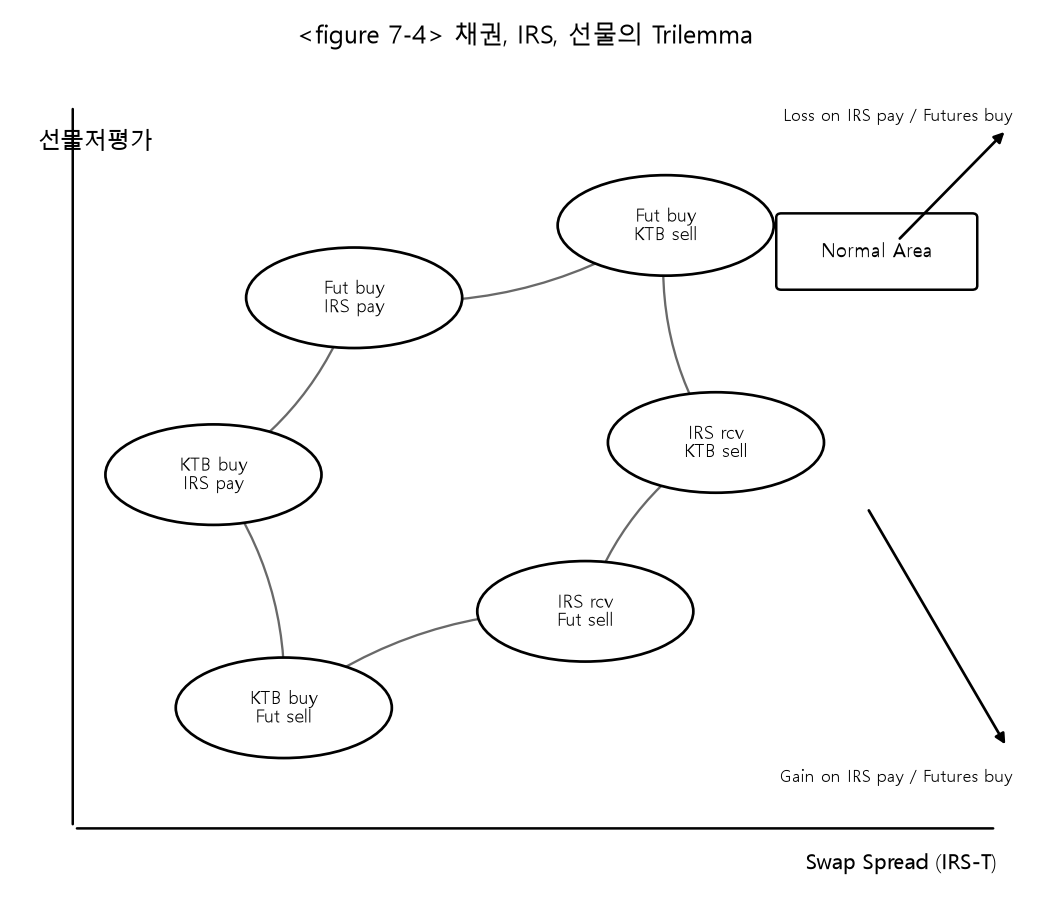
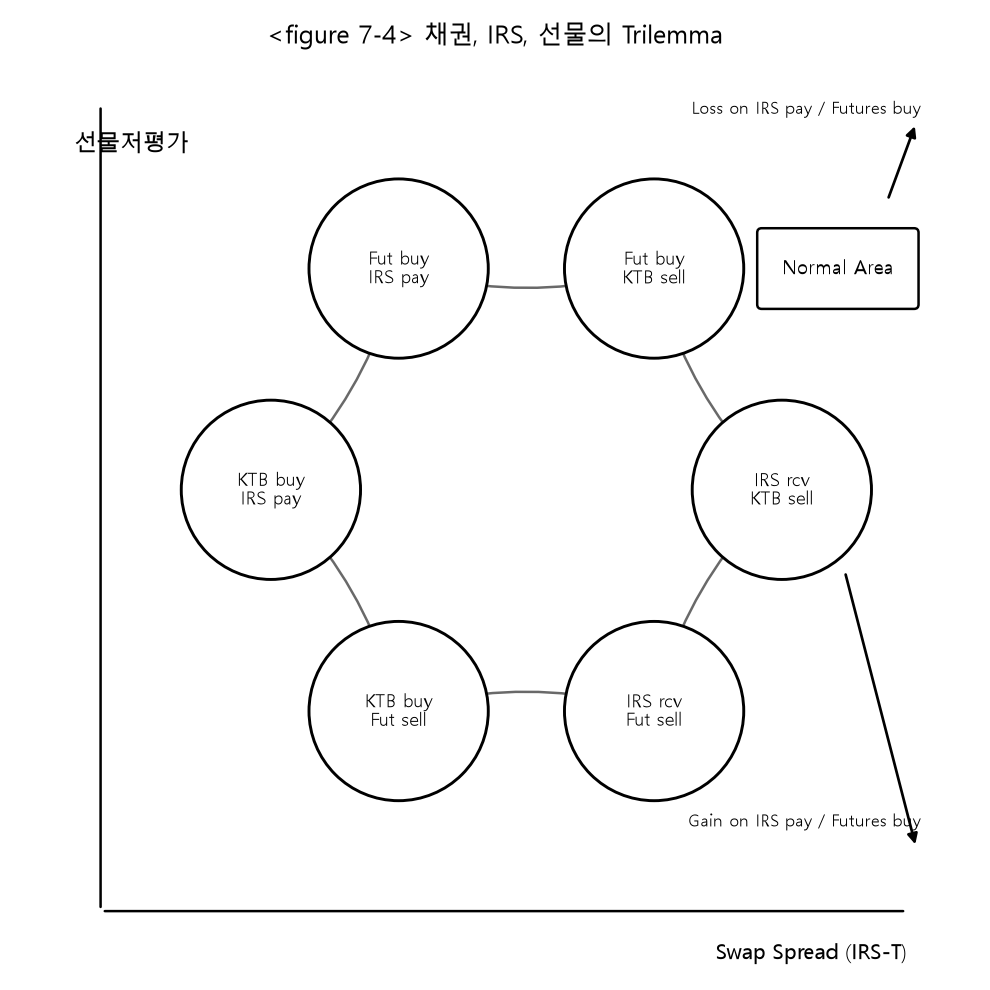
Relative Value 위치 이동, IRS-KTB 장기평균 추가, Trilemma 다이어그램 재디자인
- 사이드바 순서: 국내금리 -> IRS -> Relative Value -> 해외금리...
- IRS-KTB 추이 각 차트에 전체 기간 평균을 점선 기준선으로 표시
- Trilemma 다이어그램을 타원 대신 정원(true circle, set_aspect="equal")으로
  다시 그리고 육각형 배치로 정리, 산점도 차트와 높이가 비슷하도록 크기 조정

diff --git a/assets/gen_trilemma.py b/assets/gen_trilemma.py
@@ -2,70 +2,82 @@
 <그림 7-4> 채권, IRS, 선물의 Trilemma 개념도를 재현해서 정적 이미지로 저장.
 데이터에서 계산되는 그래프가 아니라 참고용 개념도라서, 한 번만 생성해서
 assets/trilemma_diagram.png 로 커밋해두고 앱에서는 st.image로 보여준다.
+
+노드를 정원(true circle)으로 그리기 위해 ax.set_aspect("equal") 사용 - 이게 없으면
+figure 가로세로 비율에 따라 원이 타원으로 찌그러져 보인다.
 """
 import matplotlib
 matplotlib.use("Agg")
+import math
 import matplotlib.pyplot as plt
-from matplotlib.patches import Ellipse, FancyArrowPatch, FancyBboxPatch
+from matplotlib.patches import Circle, FancyArrowPatch, FancyBboxPatch
 
 plt.rcParams["font.family"] = "Malgun Gothic"
 plt.rcParams["axes.unicode_minus"] = False
 
-fig, ax = plt.subplots(figsize=(7, 6), dpi=150)
+fig, ax = plt.subplots(figsize=(6.6, 6.6), dpi=150)
 ax.set_xlim(0, 10)
 ax.set_ylim(0, 10)
+ax.set_aspect("equal")
 ax.axis("off")
 
-# 축 (테두리만 있는 좌표계처럼 보이게)
-ax.annotate("", xy=(9.7, 0.6), xytext=(0.5, 0.6),
+# 축
+ax.annotate("", xy=(9.6, 0.6), xytext=(0.6, 0.6),
             arrowprops=dict(arrowstyle="-", color="black", lw=1.2))
-ax.annotate("", xy=(0.5, 9.6), xytext=(0.5, 0.6),
+ax.annotate("", xy=(0.6, 9.6), xytext=(0.6, 0.6),
             arrowprops=dict(arrowstyle="-", color="black", lw=1.2))
-ax.text(0.15, 9.3, "선물저평가", fontsize=11, ha="left", va="top")
-ax.text(9.7, 0.3, "Swap Spread (IRS-T)", fontsize=10, ha="right", va="top")
+ax.text(0.3, 9.3, "선물저평가", fontsize=11, ha="left", va="top")
+ax.text(9.6, 0.25, "Swap Spread (IRS-T)", fontsize=10, ha="right", va="top")
 
+# 정육각형 배치 (위 2개 / 좌우 2개 / 아래 2개) - 참고 이미지 레이아웃과 동일한 구조
+cx, cy, R = 5.35, 5.3, 2.85
+angles = {"fut_irs": 120, "fut_ktb": 60, "ktb_irs": 180, "irs_ktb": 0, "ktb_fut": 240, "irs_fut": 300}
+labels = {
+    "fut_irs": "Fut buy\nIRS pay", "fut_ktb": "Fut buy\nKTB sell",
+    "ktb_irs": "KTB buy\nIRS pay", "irs_ktb": "IRS rcv\nKTB sell",
+    "ktb_fut": "KTB buy\nFut sell", "irs_fut": "IRS rcv\nFut sell",
+}
 nodes = {
-    "fut_irs":  (3.3, 7.2, "Fut buy\nIRS pay"),
-    "fut_ktb":  (6.4, 8.1, "Fut buy\nKTB sell"),
-    "ktb_irs":  (1.9, 5.0, "KTB buy\nIRS pay"),
-    "irs_ktb":  (6.9, 5.4, "IRS rcv\nKTB sell"),
-    "irs_fut":  (5.6, 3.3, "IRS rcv\nFut sell"),
-    "ktb_fut":  (2.6, 2.1, "KTB buy\nFut sell"),
+    key: (cx + R * math.cos(math.radians(a)), cy + R * math.sin(math.radians(a)))
+    for key, a in angles.items()
 }
 
-for x, y, label in nodes.values():
-    e = Ellipse((x, y), width=2.15, height=1.25, facecolor="white", edgecolor="black", lw=1.3, zorder=3)
-    ax.add_patch(e)
-    ax.text(x, y, label, fontsize=8.7, ha="center", va="center", zorder=4)
+NODE_R = 1.0
+for key, (x, y) in nodes.items():
+    c = Circle((x, y), radius=NODE_R, facecolor="white", edgecolor="black", lw=1.4, zorder=3)
+    ax.add_patch(c)
+    ax.text(x, y, labels[key], fontsize=8.8, ha="center", va="center", zorder=4)
 
-# Normal Area 박스
-box = FancyBboxPatch((7.55, 7.35), 1.9, 0.85, boxstyle="round,pad=0.05",
+# Normal Area 박스 (fut_ktb 오른쪽)
+box_x, box_y = nodes["fut_ktb"][0] + 2.05, nodes["fut_ktb"][1]
+box = FancyBboxPatch((box_x - 0.85, box_y - 0.4), 1.7, 0.8, boxstyle="round,pad=0.05",
                       facecolor="white", edgecolor="black", lw=1.2, zorder=3)
 ax.add_patch(box)
-ax.text(8.5, 7.775, "Normal Area", fontsize=9, ha="center", va="center", zorder=4)
+ax.text(box_x, box_y, "Normal Area", fontsize=9, ha="center", va="center", zorder=4)
 
-# 순환 화살표 (KTB buy/IRS pay -> Fut buy/IRS pay -> Fut buy/KTB sell -> IRS rcv/KTB sell
-#              -> IRS rcv/Fut sell -> KTB buy/Fut sell -> KTB buy/IRS pay)
+# 순환 화살표: KTB buy/IRS pay -> Fut buy/IRS pay -> Fut buy/KTB sell -> IRS rcv/KTB sell
+#             -> IRS rcv/Fut sell -> KTB buy/Fut sell -> (다시 KTB buy/IRS pay)
 loop = ["ktb_irs", "fut_irs", "fut_ktb", "irs_ktb", "irs_fut", "ktb_fut", "ktb_irs"]
 for a, b in zip(loop[:-1], loop[1:]):
-    xa, ya, _ = nodes[a]
-    xb, yb, _ = nodes[b]
+    xa, ya = nodes[a]
+    xb, yb = nodes[b]
     arrow = FancyArrowPatch((xa, ya), (xb, yb),
-                             connectionstyle="arc3,rad=0.18",
-                             arrowstyle="-|>", mutation_scale=14,
-                             color="dimgray", lw=1.1, zorder=2)
+                             connectionstyle="arc3,rad=0.15",
+                             arrowstyle="-|>", mutation_scale=15,
+                             shrinkA=NODE_R * 17, shrinkB=NODE_R * 17,
+                             color="dimgray", lw=1.2, zorder=2)
     ax.add_patch(arrow)
 
 # 우측 상단/하단 대각선 화살표 + 설명
-ax.annotate("", xy=(9.8, 9.3), xytext=(8.7, 7.9),
+ax.annotate("", xy=(9.7, 9.4), xytext=(box_x + 0.55, box_y + 0.75),
             arrowprops=dict(arrowstyle="-|>", color="black", lw=1.3))
-ax.text(9.85, 9.35, "Loss on IRS pay / Futures buy", fontsize=8.3, ha="right", va="bottom")
+ax.text(9.75, 9.45, "Loss on IRS pay / Futures buy", fontsize=8.3, ha="right", va="bottom")
 
-ax.annotate("", xy=(9.8, 1.6), xytext=(8.4, 4.6),
+ax.annotate("", xy=(9.7, 1.3), xytext=(nodes["irs_ktb"][0] + 0.7, nodes["irs_ktb"][1] - 0.9),
             arrowprops=dict(arrowstyle="-|>", color="black", lw=1.3))
-ax.text(9.85, 1.35, "Gain on IRS pay / Futures buy", fontsize=8.3, ha="right", va="top")
+ax.text(9.75, 1.5, "Gain on IRS pay / Futures buy", fontsize=8.3, ha="right", va="bottom")
 
-ax.set_title("<figure 7-4> 채권, IRS, 선물의 Trilemma", fontsize=12, pad=14)
+ax.set_title("<figure 7-4> 채권, IRS, 선물의 Trilemma", fontsize=12, pad=12)
 
 fig.tight_layout()
 fig.savefig(__file__.replace("gen_trilemma.py", "trilemma_diagram.png"), dpi=150, facecolor="white")

diff --git a/app.py b/app.py
@@ -84,13 +84,17 @@ def period_selector(min_date, max_date, key_prefix: str, default: str = "5Y"):
 MA_COLORS = {20: "#E67E22", 60: "#27AE60", 120: "#2980B9", 200: "#8E44AD"}
 
 
-def _plot_with_ma(view: pd.DataFrame, title: str, yaxis_title: str, name: str, key: str):
+def _plot_with_ma(view: pd.DataFrame, title: str, yaxis_title: str, name: str, key: str, avg_line: float | None = None):
     fig = go.Figure()
     fig.add_trace(go.Scatter(x=view["날짜"], y=view["값"], mode="lines", name=name,
                               line=dict(width=3, color="black")))
     for w in MA_WINDOWS:
         fig.add_trace(go.Scatter(x=view["날짜"], y=view[f"MA{w}"], mode="lines",
                                   name=f"MA{w}", line=dict(width=1.5, color=MA_COLORS[w])))
+    if avg_line is not None:
+        fig.add_hline(y=avg_line, line_dash="dash", line_color="black", line_width=1.2,
+                      annotation_text=f"장기평균 {avg_line:.1f}", annotation_position="top left",
+                      annotation_font_size=10)
     fig.update_layout(title=title, height=360, yaxis_title=yaxis_title,
                        legend=dict(orientation="h", y=-0.25), margin=dict(t=40))
     st.plotly_chart(fig, use_container_width=True, key=key)
@@ -611,7 +615,7 @@ def _bss_vs_futures_scatter():
                                   name=f"현재 ({latest['날짜']:%Y-%m-%d})"))
 
     fig.update_layout(title="BSS와 선물 저평 (최근 1년)", xaxis_title="IRS - KTB 3년 (bp)",
-                       yaxis_title="3년 선물 저평(bp)", height=430, showlegend=False, margin=dict(t=40))
+                       yaxis_title="3년 선물 저평(bp)", height=480, showlegend=False, margin=dict(t=40))
     return fig
 
 
@@ -640,9 +644,12 @@ def page_relative_value():
 
         cols = st.columns(3)
         for i, tenor in enumerate(IRS_KTB_SPREAD_TENORS):
+            full_history = _cross_group_spread_view("IRS", "국고채", tenor, min_date, max_date)
+            avg = full_history["값"].mean()
             view = _cross_group_spread_view("IRS", "국고채", tenor, start_date, end_date)
             with cols[i % 3]:
-                _plot_with_ma(view, f"IRS-KTB {tenor}", "bp", f"IRS-KTB {tenor}", key=f"rv_irsktb_{tenor}")
+                _plot_with_ma(view, f"IRS-KTB {tenor}", "bp", f"IRS-KTB {tenor}", key=f"rv_irsktb_{tenor}",
+                              avg_line=avg)
 
         _chart_gap()
         st.markdown("#### IRS-선물내재수익률")
@@ -656,9 +663,9 @@ def page_relative_value():
 
 # ================================================================ 세로 사이드바 내비게이션
 nav = st.navigation([
-    st.Page(page_relative_value, title="Relative Value", icon="⚖"),
     st.Page(page_domestic_rate, title="국내금리", icon="🏛", default=True),
     st.Page(page_irs_detail, title="IRS", icon="🔁"),
+    st.Page(page_relative_value, title="Relative Value", icon="⚖"),
     st.Page(page_foreign_rate, title="해외금리", icon="🌍"),
     st.Page(page_fx, title="FX", icon="💱"),
     st.Page(page_commodity, title="원자재", icon="🛢"),
